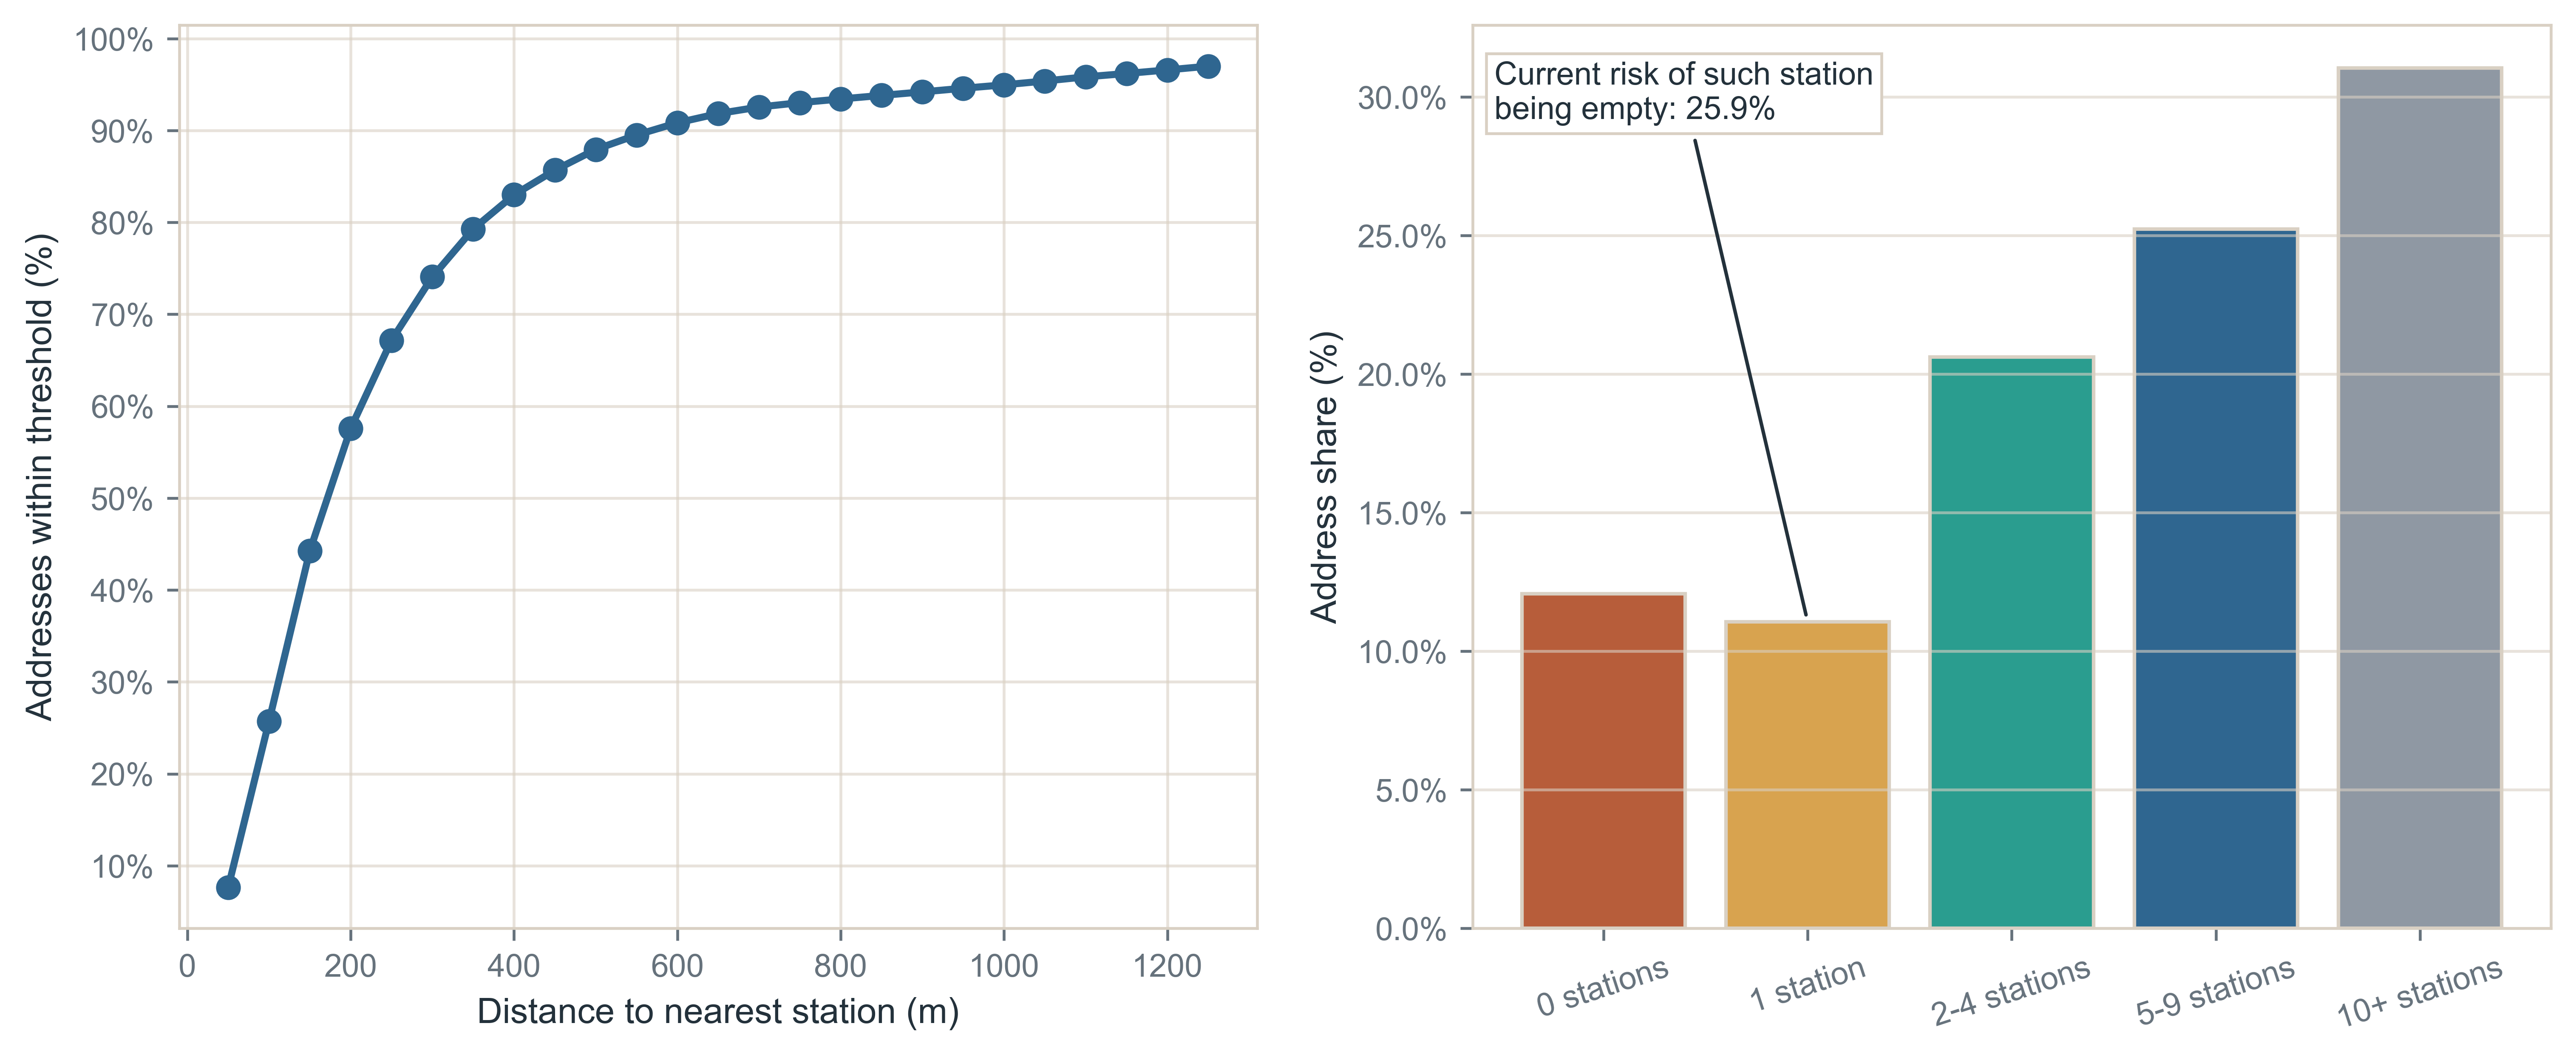
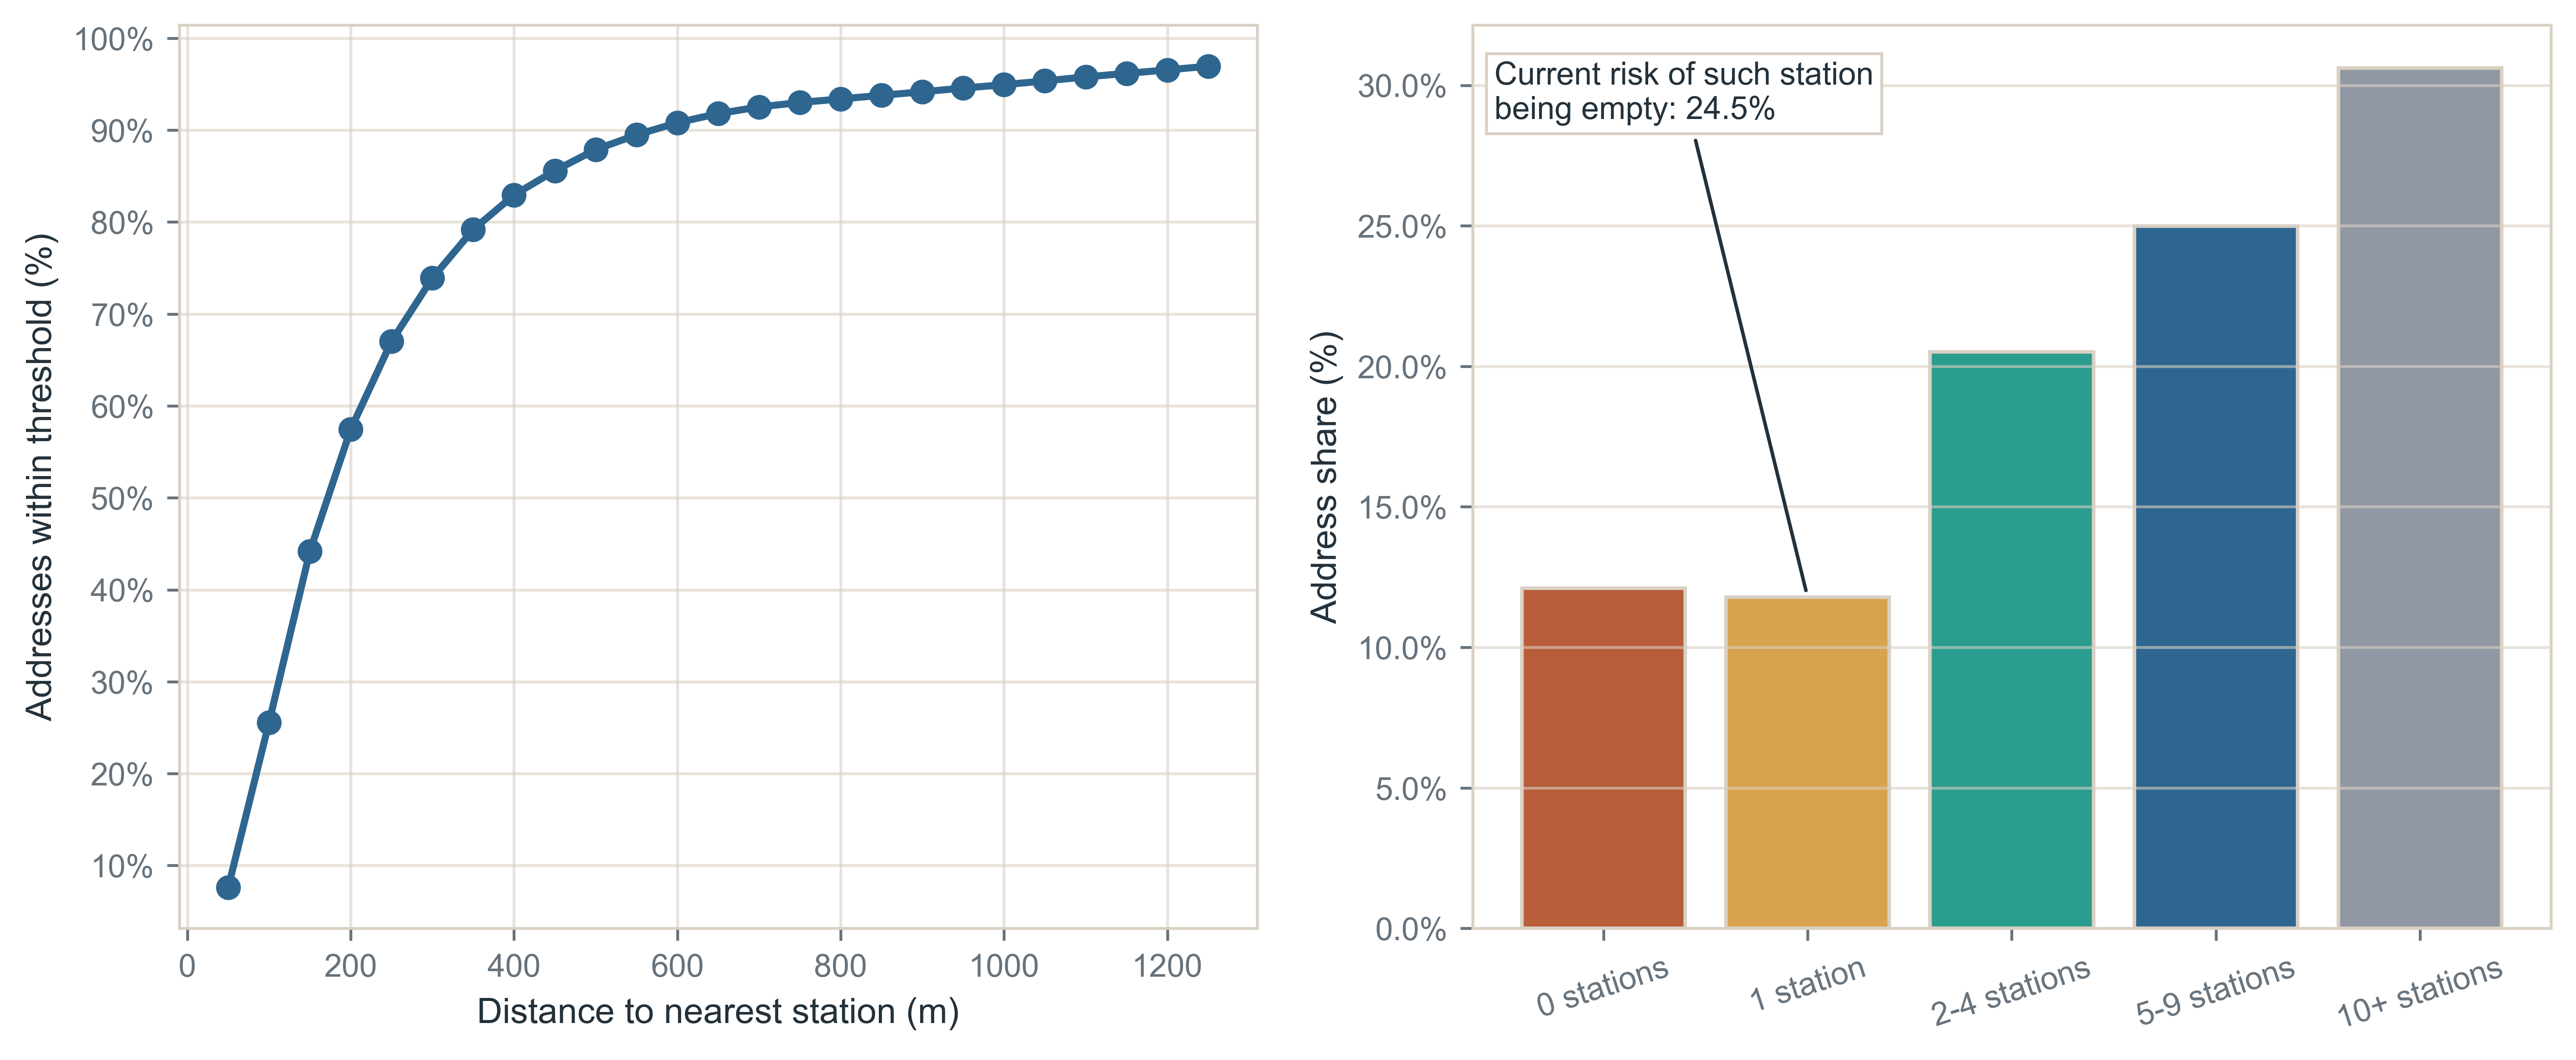
Remove ns_ov_fiets from statistical analysis for consistency

diff --git a/research_support/empirical_analysis/statistical_analysis.py b/research_support/empirical_analysis/statistical_analysis.py
@@ -32,7 +32,7 @@ SERVICE_ZONE_BOUNDARIES = (
     / "output"
     / "service_zone_boundaries_z20_cat5.geojson"
 )
-PROVIDERS = ["donkey_denHaag", "ns_ov_fiets"]
+PROVIDERS = ["donkey_denHaag"]
 DEN_HAAG_BBOX_LAT = (52.00, 52.13)
 DEN_HAAG_BBOX_LON = (4.20, 4.42)
 RECENT_WINDOW_DAYS = 15